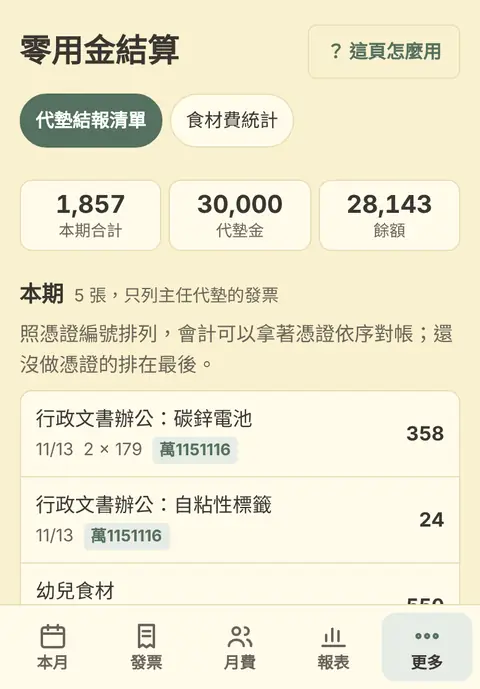
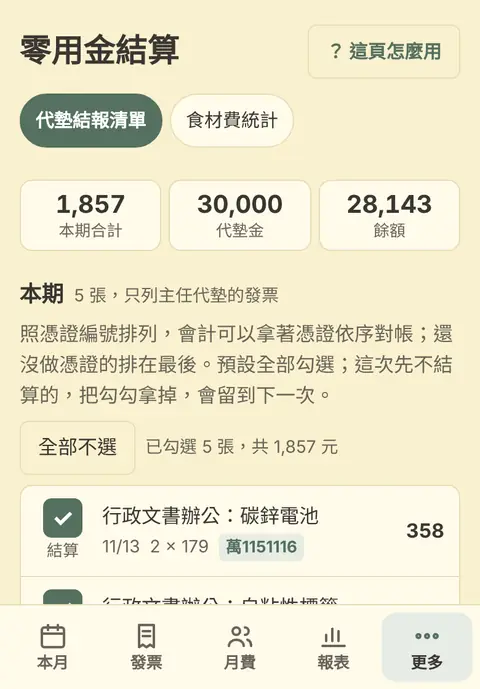
零用金：本期清單可勾選只結算幾張；已結算可退回，發票回到本期
Claude-Session: https://claude.ai/code/session_01Q8m2fzZpMdR6GMxaE229qM

Changed region(s): [[0.0312, 0.5181, 0.9688, 0.8839], [0.5, 0.8534, 0.7188, 0.8839], [0.8438, 0.8534, 0.9375, 0.8839]]

diff --git a/app.js b/app.js
@@ -2,7 +2,7 @@ import { createFirebaseStore, createDemoStore } from './data.js';
 import { colName } from './xlsx.js';
 import { sampleData } from './sample.js';
 
-const VERSION = '2026.11.19.3';
+const VERSION = '2026.11.19.4';
 const $ = s => document.querySelector(s);
 const esc = s => String(s ?? '').replace(/[&<>"']/g, c => ({ '&': '&amp;', '<': '&lt;', '>': '&gt;', '"': '&quot;', "'": '&#39;' }[c]));
 const fmt = n => (n < 0 ? '-' : '') + Math.abs(Math.round(n || 0)).toLocaleString('en-US');
@@ -403,6 +403,7 @@ function maybeAlert(force) {
 const NAMES = { home: '本月', inv: '發票', fee: '月費與收據', report: '報表', vou: '憑證與列印', cash: '零用金結算', staff: '人事費', trash: '垃圾桶', set: '設定', help: '說明' };
 const IN_MORE = ['vou', 'cash', 'staff', 'trash', 'set', 'help'];
 let view = 'home', sel = new Set(), invFilter = 'all', cashTab = 'list';
+const cashOff = new Set();          // 本期沒勾選、這次先不結算的發票（預設全部勾選）
 const SEL_M = { vou: { y: CY, m: CM }, fee: { y: CY, m: CM }, staff: { y: CY, m: CM }, food: { y: CY, m: CM } };
 // 設定、人事費改到一半就要離開時，先問一下
 function leaveGuard(next) {
@@ -737,8 +738,11 @@ function vou() {
     <div class="meta">${pill(v.src)}<span>受款人：${esc(v.kind === 'inv' ? payeeLabel(v) : v.payee)}</span>${v.kind === 'inv' ? `${v.printed ? `<span class="pill p-done">已印 ${esc(v.printedAt)}</span>` : '<span class="pill p-todo">還沒印</span>'}<span>${isWB(v) ? '一般紙' : '色紙'}</span>` : '<span>另外製作</span>'}${v.note ? '<span>有備註</span>' : ''}${v.printed && v.amountPrinted != null && v.amountPrinted !== v.amount ? `<span class="when-warn">印後改過金額（紙本是 ${fmt(v.amountPrinted)}）</span>` : ''}</div></div>
     <span class="amount">${fmt(v.amount)}</span><div class="acts">${v.kind === 'inv' ? `<button type="button" class="edit" data-vinv="${esc(v.no)}">修改</button><button type="button" class="edit" data-printv="${esc(v.no)}">列印</button>` : ''}<button type="button" class="edit" data-cancelv="${esc(v.no)}">取消</button></div></div>`).join('')}</div>` : '<div class="empty">這個月還沒有憑證。到「發票」勾選發票，就能合併成憑證。</div>'}`;
 }
+const pettyPicked = () => sortPetty(pettyOpen()).filter(x => !cashOff.has(x.id));
+const nextSettleN = () => Math.max(0, ...S().settlements.filter(s => s.y === CY && s.m === CM).map(s => +s.n || 0)) + 1;
 function cash() {
   const po = sortPetty(pettyOpen()), pt = po.reduce((a, x) => a + amt(x), 0);
+  const pk = po.filter(x => !cashOff.has(x.id)), pkt = pk.reduce((a, x) => a + amt(x), 0), allOn = pk.length === po.length;
   $('#headExtra').innerHTML = `<div class="chips" role="group" aria-label="切換">${[['list', '代墊結報清單'], ['food', '食材費統計']].map(([k, t]) => `<button type="button" class="chip" aria-pressed="${cashTab === k}" data-cash="${k}">${t}</button>`).join('')}</div>`;
   if (cashTab === 'food') {
     const { y, m } = SEL_M.food;
@@ -753,12 +757,13 @@ function cash() {
   $('#view').innerHTML = `
   <div class="tally"><span>本期合計<b>${fmt(pt)}</b></span><span>代墊金<b>${fmt(N.petty)}</b></span><span class="${N.petty - pt < 5000 ? 'bad' : ''}">餘額<b>${fmt(N.petty - pt)}</b></span></div>
   <section><h2>本期<small>${po.length} 張，只列主任代墊的發票</small></h2>
-  <p class="hint">照憑證編號排列，會計可以拿著憑證依序對帳；還沒做憑證的排在最後。</p>
-  ${po.length ? `<div class="list">${po.map(x => `<div class="row"><div class="main"><div class="title">${esc(x.cat)}${x.cat === '幼兒食材' ? '' : '：' + esc(x.desc)}</div><div class="meta"><span>${x.m}/${x.d}</span>${x.qty > 1 ? `<span>${x.qty} × ${fmt(x.price)}</span>` : ''}${x.voucher ? `<span class="pill p-done">${esc(x.voucher)}</span>` : '<span class="pill p-todo">還沒做憑證</span>'}</div></div><span class="amount">${fmt(amt(x))}</span></div>`).join('')}</div>
-   <div class="actions start"><button type="button" class="btn primary" id="settle">結算到今天</button><button type="button" class="btn" id="printCash">預覽結報清單</button></div>` : '<div class="empty">本期還沒有主任代墊的發票。</div>'}
+  <p class="hint">照憑證編號排列，會計可以拿著憑證依序對帳；還沒做憑證的排在最後。預設全部勾選；這次先不結算的，把勾勾拿掉，會留到下一次。</p>
+  ${po.length ? `<div class="actions start" style="align-items:center"><button type="button" class="btn" id="cashAll">${allOn ? '全部不選' : '全部勾選'}</button><span class="meta" style="margin:0">已勾選 ${pk.length} 張，共 ${fmt(pkt)} 元</span></div>
+  <div class="list">${po.map(x => `<div class="row"><button type="button" class="tick" role="checkbox" aria-checked="${!cashOff.has(x.id)}" data-cashsel="${x.id}" aria-label="結算 ${esc(x.desc)}"><i>✓</i>結算</button><div class="main"><div class="title">${esc(x.cat)}${x.cat === '幼兒食材' ? '' : '：' + esc(x.desc)}</div><div class="meta"><span>${x.m}/${x.d}</span>${x.qty > 1 ? `<span>${x.qty} × ${fmt(x.price)}</span>` : ''}${x.voucher ? `<span class="pill p-done">${esc(x.voucher)}</span>` : '<span class="pill p-todo">還沒做憑證</span>'}</div></div><span class="amount">${fmt(amt(x))}</span></div>`).join('')}</div>
+   <div class="actions start"><button type="button" class="btn primary" id="settle" ${pk.length ? '' : 'aria-disabled="true"'}>${allOn ? '結算到今天' : `結算勾選的 ${pk.length} 張`}</button><button type="button" class="btn" id="printCash">預覽結報清單</button></div>` : '<div class="empty">本期還沒有主任代墊的發票。</div>'}
   </section>
   <section><h2>已結算</h2>
-   ${done.length ? `<div class="list">${done.map(s => `<div class="row"><div class="main"><div class="title">${s.m} 月第 ${s.n} 次結算・${esc(s.date)}</div><div class="meta">${s.rows.length} 張發票</div></div><span class="amount">${fmt(s.total)}</span><button type="button" class="edit" data-printset="${s.id}">列印</button></div>`).join('')}</div>` : '<div class="empty">還沒有結算紀錄。</div>'}
+   ${done.length ? `<div class="list">${done.map(s => `<div class="row"><div class="main"><div class="title">${s.m} 月第 ${s.n} 次結算・${esc(s.date)}</div><div class="meta">${s.rows.length} 張發票</div></div><span class="amount">${fmt(s.total)}</span><div class="acts"><button type="button" class="edit" data-printset="${s.id}">列印</button><button type="button" class="edit" data-unsettle="${s.id}">退回</button></div></div>`).join('')}</div><p class="hint" style="font-size:15px">結算後才發現問題：按「退回」，這次的發票會回到本期，改好再重新結算。</p>` : '<div class="empty">還沒有結算紀錄。</div>'}
   </section>`;
 }
 function staff() {
@@ -858,7 +863,7 @@ const HELP = [
   { id: 'add', t: '輸入發票', shot: 'dlginv', steps: ['拿到發票就按「＋ 新增發票」。', '代墊人預設是主任；付給廠商的選「付給廠商」並填廠商名稱。', '年、月已帶好，選日期、類別，填品名、數量和單價。經費來源會依類別自動帶出。', '不習慣一個畫面填很多欄位，可以在「本月」或「設定」改成一步一步模式。'] },
   { id: 'merge', t: '合併成憑證', shot: 'merge', steps: ['到「發票」，還沒做憑證的發票會照「類別＋付款對象」分組，同一組就能合成一張憑證。', '按組名右邊的「全選這組」，或自己勾選要合併的幾張。', '按下方「合併成憑證」，編號、受款人、經費來源、用途說明、金額都會自動帶入。', '需要時可以改用途說明，或加一行備註（會印在簽章欄下方）。', '建立憑證需要網路，避免兩台裝置用到同一個編號。'] },
   { id: 'print', t: '列印憑證', shot: 'print', steps: ['到「更多 → 憑證與列印」，按「列印憑證」。', '還沒印的會先勾好；要補印的，在「要印哪幾張」清單自己勾起來。', '先印第 1 批委辦費（一般紙），再印第 2 批其他經費來源（色紙），畫面會說要放幾張色紙。', '可以左右滑動或按「上一張／下一張」看每一張。', '印出後才發現發票金額錯了：按那張憑證的「修改」，選要改的發票，改好後憑證金額、結報清單和年度報表會一起更新，編號不變。紙本手改就好，不一定要重印。'] },
-  { id: 'cash', t: '零用金結算', shot: 'cash', steps: ['每月兩次，到「更多 → 零用金結算」。', '清單只列主任代墊的發票，照憑證編號排列，會計可以拿著憑證依序對帳。', '按「結算到今天」。還有發票沒做憑證、憑證沒印的，會先提醒你。', '結算過的清單在下方「已結算」，可以再列印。'] },
+  { id: 'cash', t: '零用金結算', shot: 'cash', steps: ['每月兩次，到「更多 → 零用金結算」。', '清單只列主任代墊的發票，照憑證編號排列，會計可以拿著憑證依序對帳。', '預設全部勾選；這次只要結算其中幾張，把其他的勾勾拿掉，沒勾的會留到下一次。', '按「結算到今天」。還有發票沒做憑證、憑證沒印的，會先提醒你。', '結算過的清單在下方「已結算」，可以再列印；結算後才發現問題，按「退回」，發票回到本期改好再重新結算。'] },
   { id: 'staff', t: '人事費', shot: 'staff', steps: ['薪資清冊做好後，到「更多 → 人事費」。', '每位員工填這個月的金額，經費來源預設委辦費-人事費。', '委辦人事費不夠時，按那位員工的「拆單」，填委辦費付多少，其餘自動改由營運收入支應。', '按「儲存本月人事費」。生日禮金、代班薪資、年終獎金在下方新增。'] },
   { id: 'fee', t: '月費與收據', shot: 'fee', steps: ['名單沿用上個月，月費和餐點費依上課天數和生日自動算。餐點費看孩子到當月 1 號滿幾個月：未滿 6 個月不收、未滿 1 歲 300 元、滿 1 歲 600 元。', '有延托、保險、退費的孩子，按「修改」填寫；退費填負數。', '按「列印收據」，每位孩子一頁三聯。收據號碼在列印時確定，印過的不會再變；每年 1 月從 001 號重新開始。', '協會借用的收據號碼，按「協會借用號碼」標記，之後會跳過。', '收據日期在頁面最上面，預設每月 15 號（遇週末順延），每個月可以自己改；預設幾號在「設定 → 收據」改，優化比、契約價金也可以設不同的預設日。', '有幾張要用不同的日期：按「勾選改日期」，像發票一樣勾選收據，在下方選日期後按「套用日期」。', '頁面下方「請款收據」：1、4、7、10 月會出現優化比（繳款人預設屏東縣政府；1 月是前一年第四期），1、2、7、10 月會出現契約價金（繳款人預設協會）。按「填寫」確認金額、貼上摘要，再按「列印」。其他要開的收據按「＋ 其他收據」。'] },
   { id: 'report', t: '報表', shot: 'report', steps: ['「年度經費報表」照每月報表的格式，自動算每月收入、支出、損益，和委辦費、行管費用了幾 %。', '優化比、提升托育品質、縣府補助款到帳時，按「＋ 新增撥款收入」；補助款要選期別（第一期、第二期⋯），每一期各一列。', '按「列印（A4 橫式）」印一頁；按「匯出 Excel」下載和原本格式一樣的 Excel（標楷體、顏色、公式）。', '委辦業務費有項目快用完或超支時，報表頁會列出「不夠用的項目」，按「補足」選要從哪一項轉出、金額，業務費總額不變；挪用紀錄可以還原。', '系統啟用前的月份，按「從 Excel 補登」選原本的經費明細檔，核對數字後按「補登」。補登之後才在系統新增的憑證、撥款收入會自動加上去；Excel 那個月沒有月費的，用系統算的月費。要交縣府時按「產出核銷報表」。'] },
@@ -1508,14 +1513,24 @@ $('#fAlert').addEventListener('submit', e => { if (!$('#alertOk').checked) { e.p
 
 /* ===== 結算 ===== */
 function doSettle() {
-  const po = sortPetty(pettyOpen());
-  const n = S().settlements.filter(s => s.y === CY && s.m === CM).length + 1;
+  const po = pettyPicked();
+  if (!po.length) return toast('請先勾選要結算的發票。');
+  const n = nextSettleN(), left = pettyOpen().length - po.length;
   const id = store.newId('settlements');
   const rows = po.map(x => ({ m: x.m, d: x.d, cat: x.cat, desc: x.desc, qty: x.qty, price: x.price, voucher: x.voucher || '' }));
   const total = po.reduce((a, x) => a + amt(x), 0);
   store.batch([{ c: 'settlements', id, data: { n, y: CY, m: CM, date: TODAY, ids: po.map(x => x.id), rows, total, createdAt: Date.now() }, merge: false },
   ...po.map(x => ({ c: 'invoices', id: x.id, update: { settled: id } }))]).catch(fail());
-  toast(`已結算 ${CM} 月第 ${n} 次，可以在「已結算」列印清單。`);
+  toast(`已結算 ${CM} 月第 ${n} 次，可以在「已結算」列印清單。${left ? `沒勾選的 ${left} 張留在本期。` : ''}`);
+}
+// 退回結算：刪掉這次的結報清單，發票回到本期
+function unsettle(id) {
+  const st = S().settlements.find(s => s.id === id); if (!st) return;
+  const ids = (st.ids || []).filter(i => S().invoices.some(x => x.id === i && x.settled === id));
+  ask(`退回 ${st.m} 月第 ${st.n} 次結算`, `<p class="hint">這次結算的 ${ids.length} 張發票（${fmt(st.total)} 元）會回到「本期」，可以修改、刪除後再重新結算。這張結報清單會刪除，已經印出的紙本請作廢。</p>${st.n < Math.max(...S().settlements.filter(s => s.y === st.y && s.m === st.m).map(s => +s.n || 0)) ? `<p class="hint">後面還有第 ${st.n + 1} 次以後的結算，退回後「第 ${st.n} 次」這個次數會空著。</p>` : ''}`, () => {
+    store.batch([{ c: 'settlements', id, remove: true }, ...ids.map(i => ({ c: 'invoices', id: i, update: { settled: null } }))]).catch(fail('沒有退回成功，請再試一次。'));
+    toast(`已退回，${ids.length} 張發票回到本期。`, () => { const { id: _, ...data } = st; store.batch([{ c: 'settlements', id, data, merge: false }, ...ids.map(i => ({ c: 'invoices', id: i, update: { settled: id } }))]).catch(fail()); toast('已復原') });
+  }, '退回', 'btn danger');
 }
 
 /* ===== 匯出、備份 ===== */
@@ -1664,6 +1679,8 @@ document.addEventListener('click', e => {
       toast(`已永久刪除，下一張${v.m} 月憑證會用 ${v.no}。`);
     }, '永久刪除', 'btn danger');
   }
+  if (t.dataset.cashsel) { const id = t.dataset.cashsel; cashOff.has(id) ? cashOff.delete(id) : cashOff.add(id); return render() }
+  if (t.dataset.unsettle) return unsettle(t.dataset.unsettle);
   if (t.dataset.move != null) return moveDialog(t.dataset.move);
   if (t.dataset.unmove) { const r = (N.wbMoves || []).find(x => x.id === t.dataset.unmove); if (!r) return; return ask('還原挪用', `<p class="hint">把${esc(r.to)}的 ${fmt(r.amount)} 元還給${esc(r.from)}？${wbLeft(r.to) < r.amount ? `還原後${esc(r.to)}會超支 ${fmt(r.amount - wbLeft(r.to))} 元。` : ''}</p>`, () => undoMove(r.id), '還原') }
   if (t.dataset.restorei) { store.update('invoices', t.dataset.restorei, { deleted: false, deletedAt: null }).catch(fail()); toast('已救回這張發票。'); return }
@@ -1726,17 +1743,19 @@ document.addEventListener('click', e => {
     case 'selClear': sel.clear(); return render();
     case 'selMerge': if (t.getAttribute('aria-disabled') === 'true') return toast('只有同一類別、同一個付款對象的發票可以合併。'); return openMerge();
     case 'printV': if (t.getAttribute('aria-disabled') === 'true') return toast('這個月還沒有憑證可以印。'); return startVoucherPrint();
+    case 'cashAll': { const po = pettyOpen(), allOn = po.every(x => !cashOff.has(x.id)); po.forEach(x => allOn ? cashOff.add(x.id) : cashOff.delete(x.id)); return render() }
     case 'settle': {
-      const po = pettyOpen(), noV = po.filter(x => !x.voucher);
+      if (t.getAttribute('aria-disabled') === 'true') return toast('請先勾選要結算的發票。');
+      const po = pettyPicked(), noV = po.filter(x => !x.voucher), rest = pettyOpen().length - po.length;
       const unp = [...new Set(po.filter(x => x.voucher).map(x => x.voucher))].map(no => S().vouchers.find(v => v.no === no)).filter(v => v && !v.printed);
       const total = po.reduce((a, x) => a + amt(x), 0);
       if (noV.length || unp.length) return ask('結算前請先確認', `<p class="hint">下面這些還沒處理，結算後就不容易補：</p>
         <div class="list">${noV.length ? `<button type="button" class="row linkrow" data-go="inv"><div class="main"><div class="title">${noV.length} 張發票還沒做憑證</div><div class="meta">${noV.map(x => esc(x.cat === '幼兒食材' ? '幼兒食材' : x.desc)).join('、')}</div></div><span class="go" aria-hidden="true">›</span></button>` : ''}
         ${unp.length ? `<button type="button" class="row linkrow" data-go="vou"><div class="main"><div class="title">${unp.length} 張憑證還沒印</div><div class="meta">${unp.map(v => esc(v.no)).join('、')}</div></div><span class="go" aria-hidden="true">›</span></button>` : ''}</div>
         <p class="hint" style="font-size:15px">按上面的項目可以直接去處理。確定這次先不處理，再按「仍要結算」。</p>`, doSettle, '仍要結算', 'btn');
-      return ask('結算到今天', `<p class="hint">會把 ${po.length} 張主任代墊的發票結成 ${CM} 月第 ${S().settlements.filter(s => s.y === CY && s.m === CM).length + 1} 次結報清單，合計 ${fmt(total)} 元。結算後清單會清空，重新累計。</p>`, doSettle, '結算');
+      return ask('結算到今天', `<p class="hint">會把勾選的 ${po.length} 張主任代墊的發票結成 ${CM} 月第 ${nextSettleN()} 次結報清單，合計 ${fmt(total)} 元。${rest ? `沒勾選的 ${rest} 張留在本期，下次再結算。` : '結算後清單會清空，重新累計。'}</p>`, doSettle, '結算');
     }
-    case 'printCash': return openPreview({ title: '代墊金結報清單（本期，還沒結算）', pages: [cashSheet(sortPetty(pettyOpen()), '本期（尚未結算）', CY, CM)] });
+    case 'printCash': return openPreview({ title: '代墊金結報清單（本期，還沒結算）', pages: [cashSheet(pettyPicked(), '本期（尚未結算）', CY, CM)] });
     case 'printFood': { const { y, m } = SEL_M.food; return openPreview({ title: '食材費統計', pages: [foodSheet(y, m)] }) }
     case 'printRcptAll': {
       const { y, m } = SEL_M.fee, kids = monthKids(y, m); if (!kids.length) return toast('還沒有幼兒名單。');

diff --git a/sw.js b/sw.js
@@ -1,5 +1,5 @@
 // 先問網站有沒有新版（不用瀏覽器暫存；3 秒內沒回應就用存好的版本），讓離線也能打開
-const CACHE = 'gongtuo-fund-2026.11.19.3';
+const CACHE = 'gongtuo-fund-2026.11.19.4';
 const SHELL = ['./', 'index.html', 'style.css', 'app.js', 'data.js', 'sample.js', 'xlsx.js', 'manifest.webmanifest', 'icons/icon-192.png', 'icons/icon-180.png', 'icons/icon-512.png'];
 self.addEventListener('install', e => { e.waitUntil(caches.open(CACHE).then(c => c.addAll(SHELL.map(u => new Request(u, { cache: 'reload' }))))); self.skipWaiting(); });
 self.addEventListener('activate', e => {
